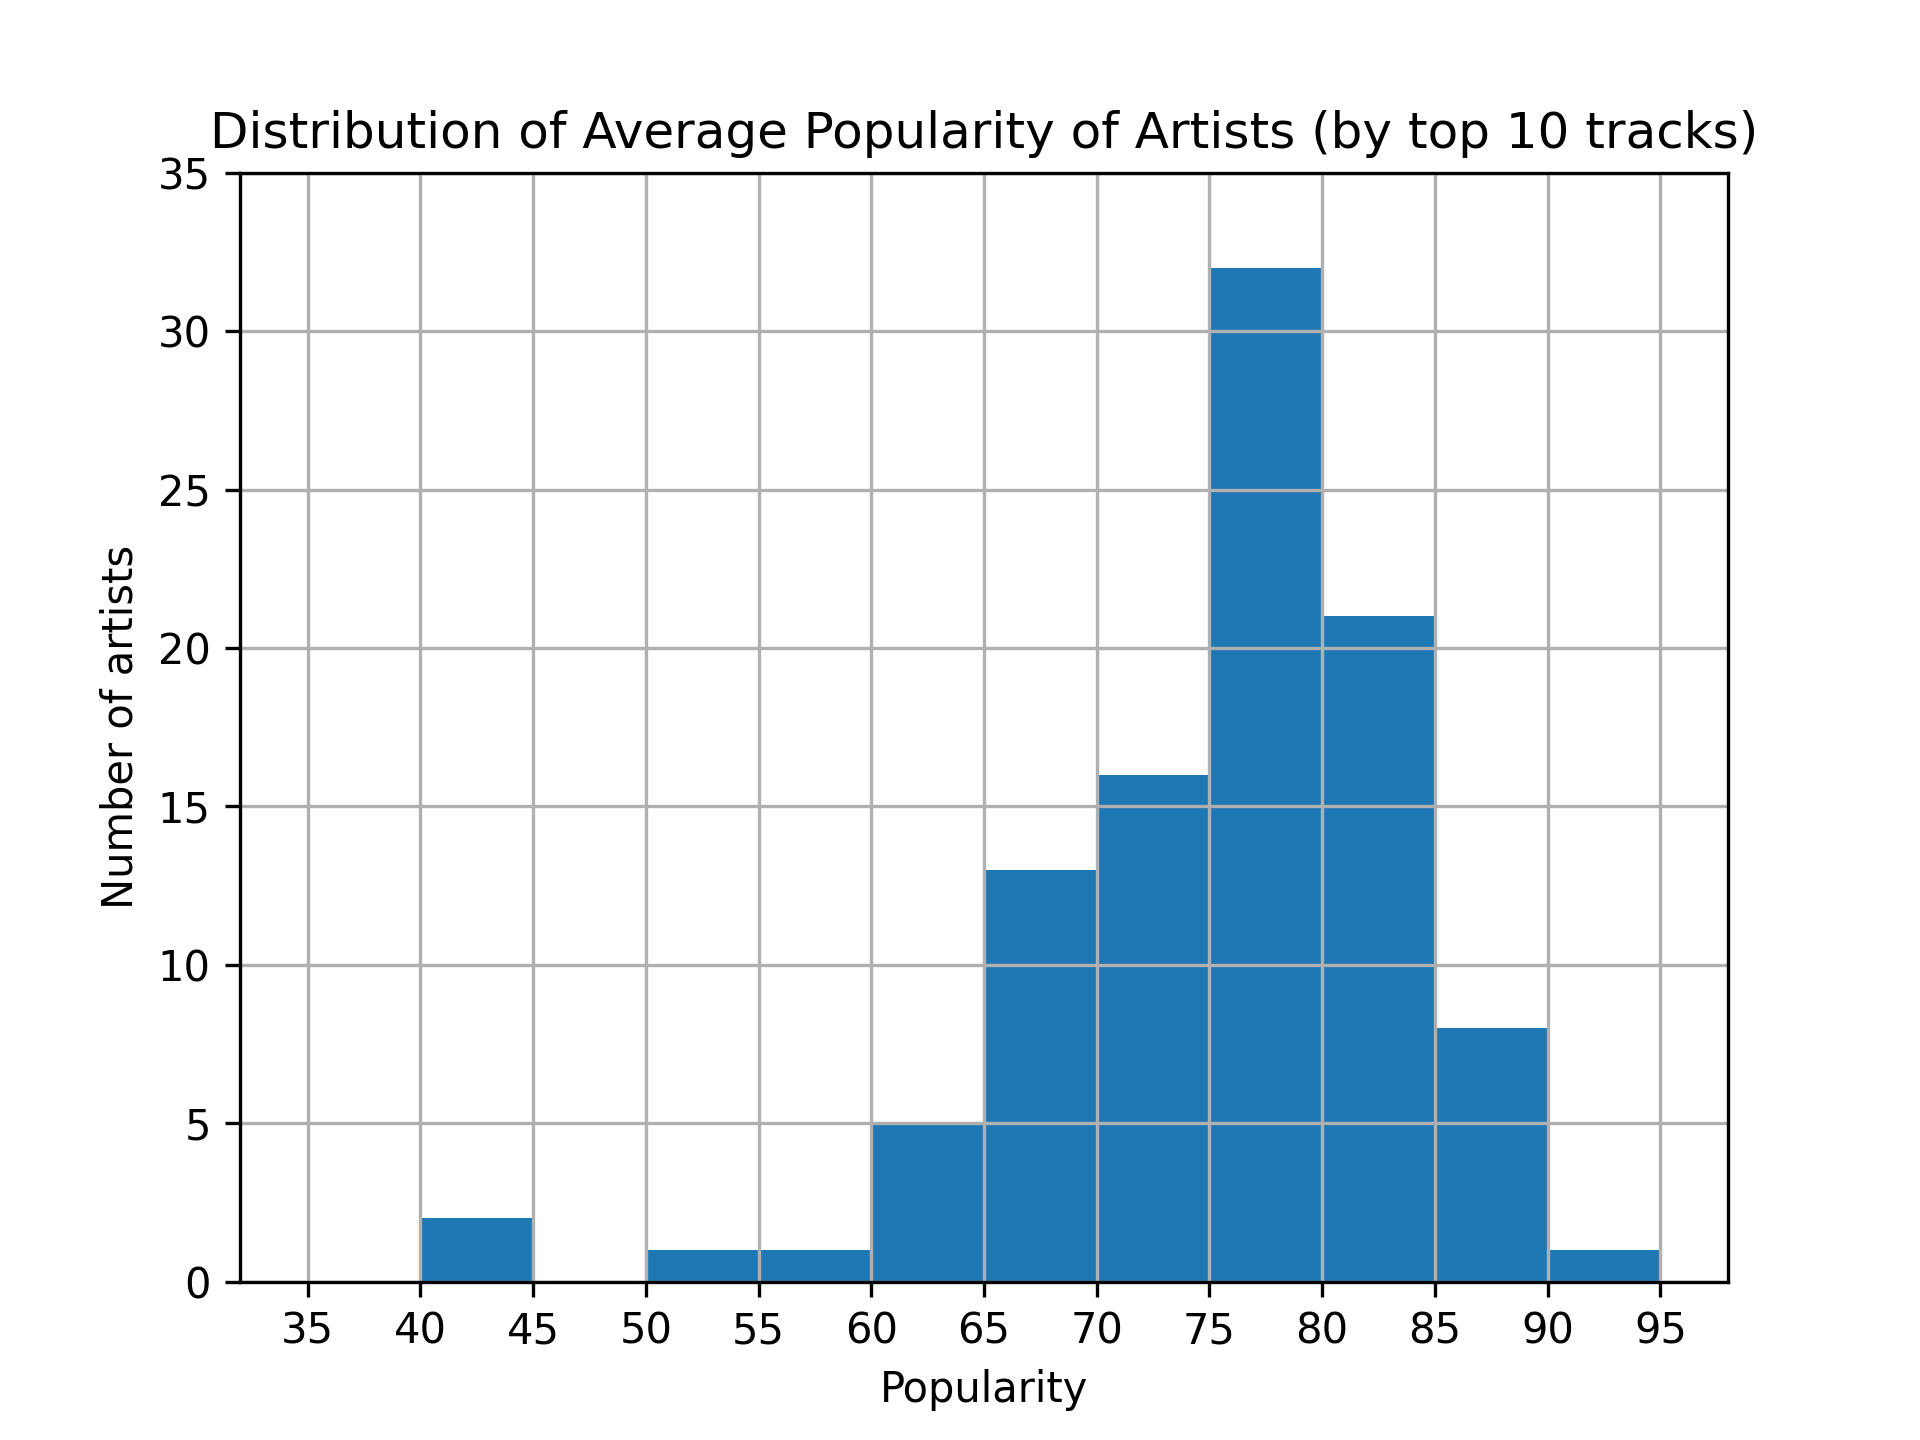
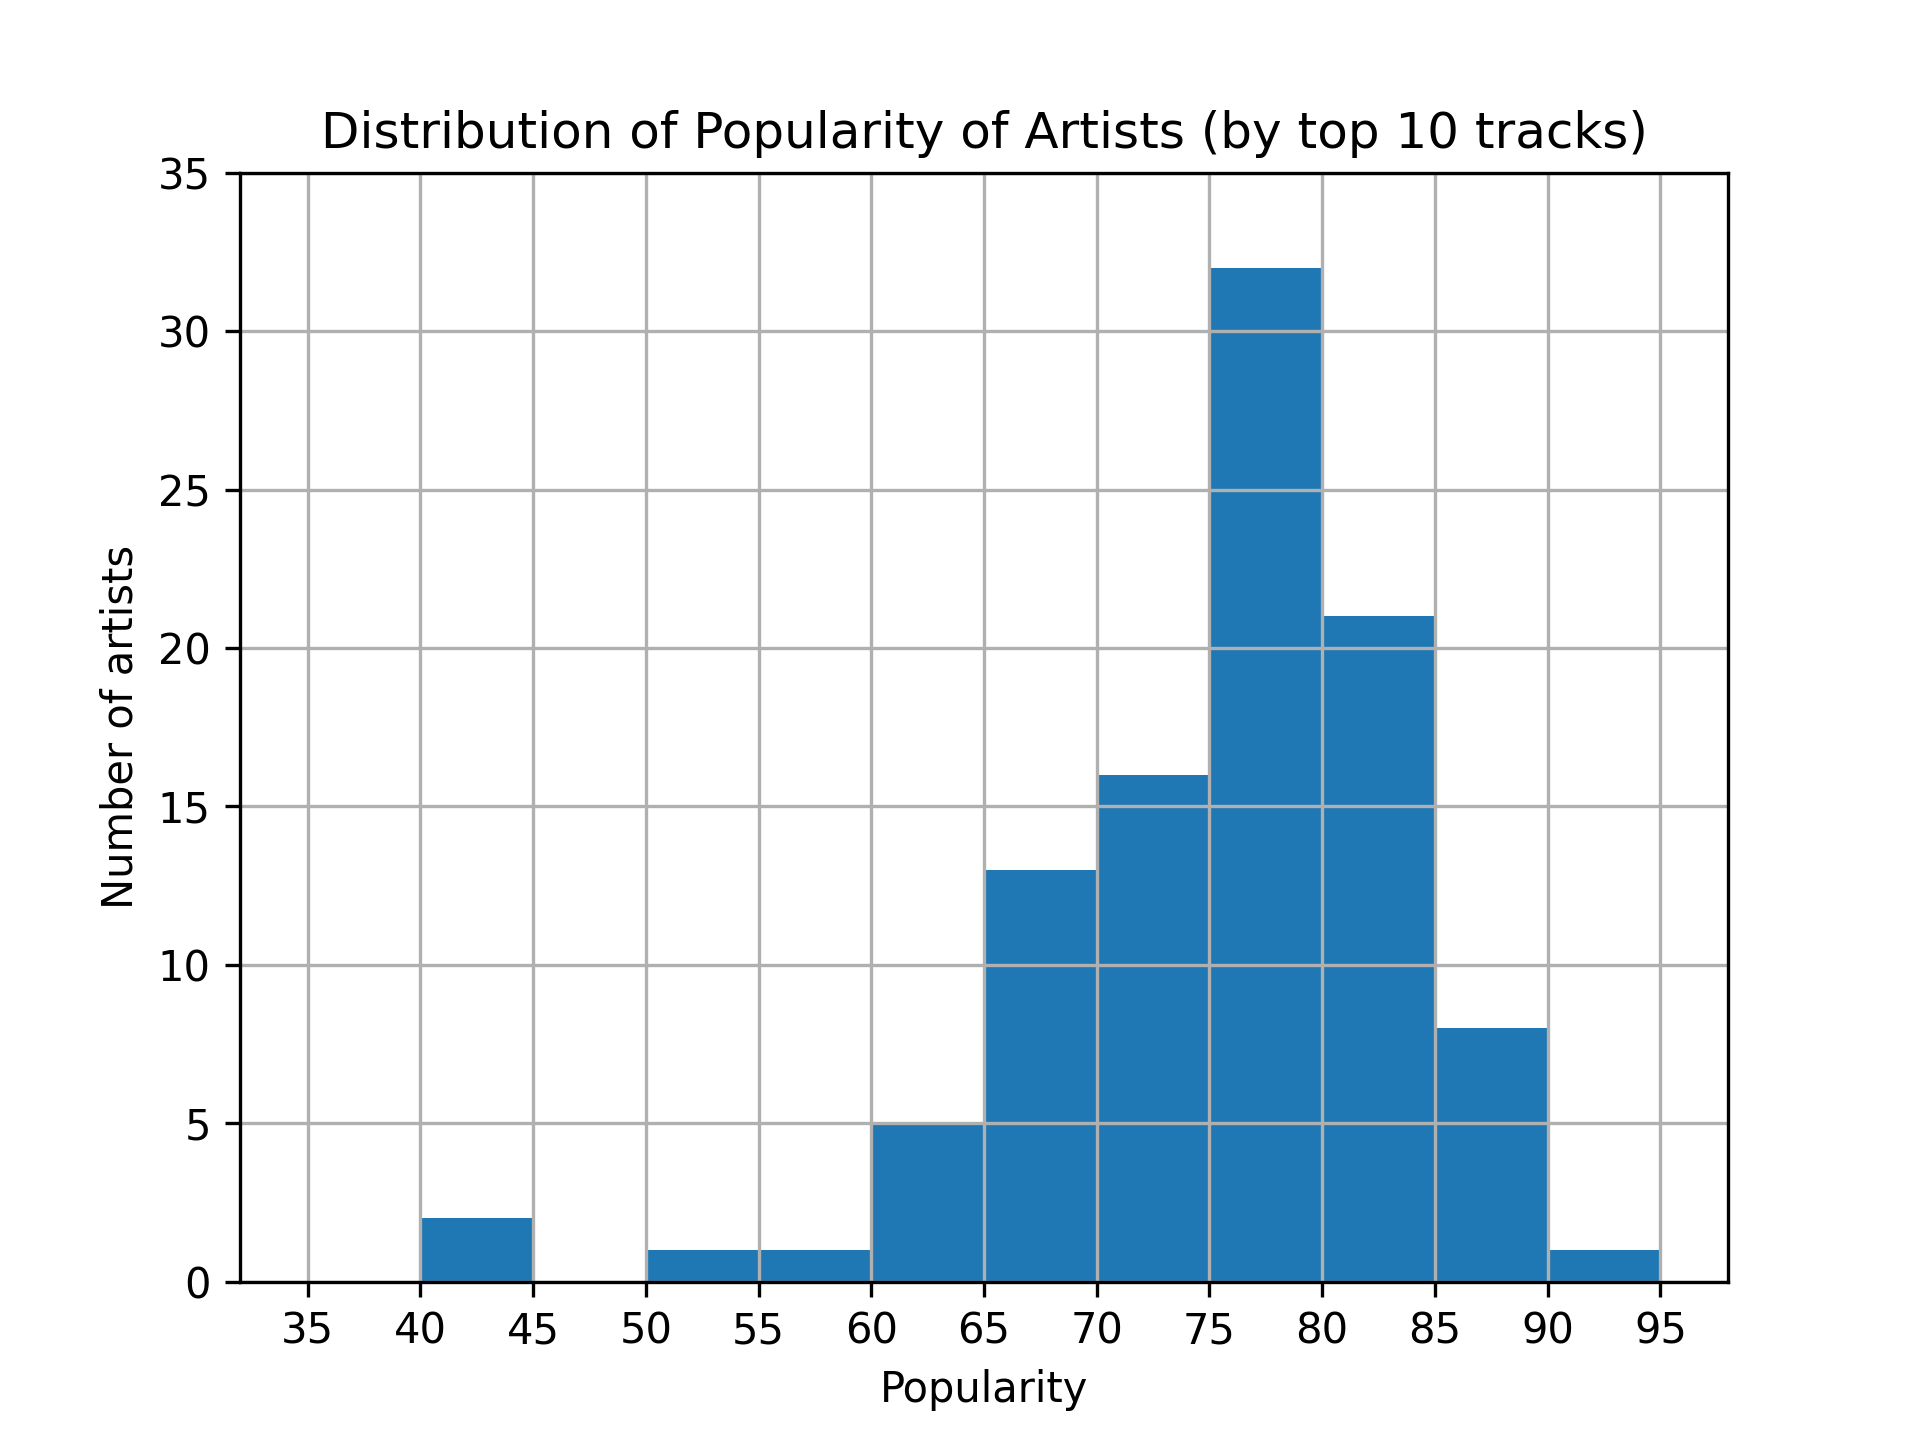
slight alteration of graphs of popularity.py

Changed region(s): [[0.125, 0.0625, 0.9062, 0.125]]

diff --git a/popularity.py b/popularity.py
@@ -7,11 +7,11 @@ df_sorted_popularity = df.sort_values(by=['popularity'], ascending=False)
 mean_df_sorted_popularity = mean_df.sort_values(by=['popularity'], ascending=False)
 
 py.figure(dpi=300)
-py.hist(df.popularity, bins=range(40, 98, 2), color='#FFBA71')
-py.xticks(range(40, 100, 5))
+py.hist(df.popularity, bins=range(40, 105, 5), color='#FFBA71')
+py.xticks(range(40, 105, 5))
+py.yticks(range(0, 275, 25))
 py.title("Distribution of Popularity of Tracks")
 py.grid()
-py.axis(ymax=100)
 py.ylabel("Number of Tracks")
 py.xlabel("Popularity")
 py.savefig('popularity_hist')
@@ -19,7 +19,7 @@ py.close()
 
 py.figure(dpi=300)
 py.hist(mean_df.popularity, bins=range(35, 100, 5))
-py.title("Distribution of Average Popularity of Artists (by top 10 tracks)")
+py.title("Distribution of Popularity of Artists (by top 10 tracks)")
 py.xticks(range(35, 100, 5))
 py.axis(ymax=35)
 py.ylabel("Number of artists")
